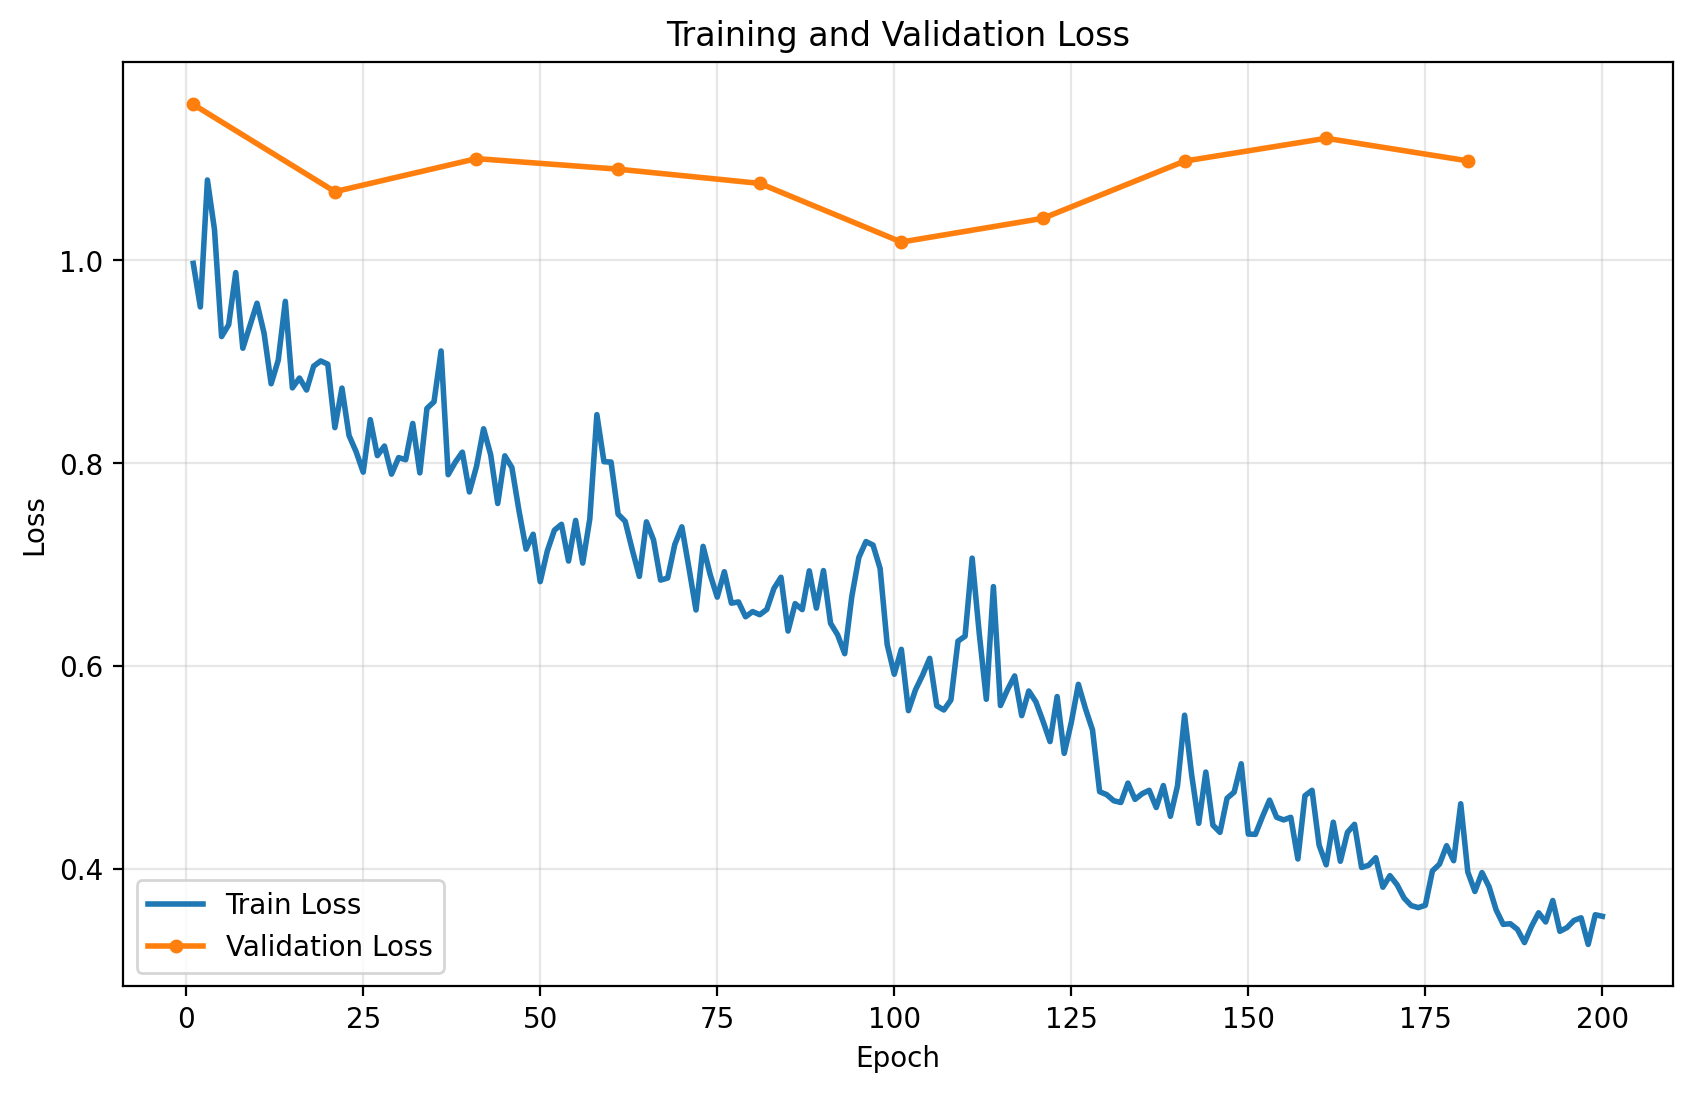
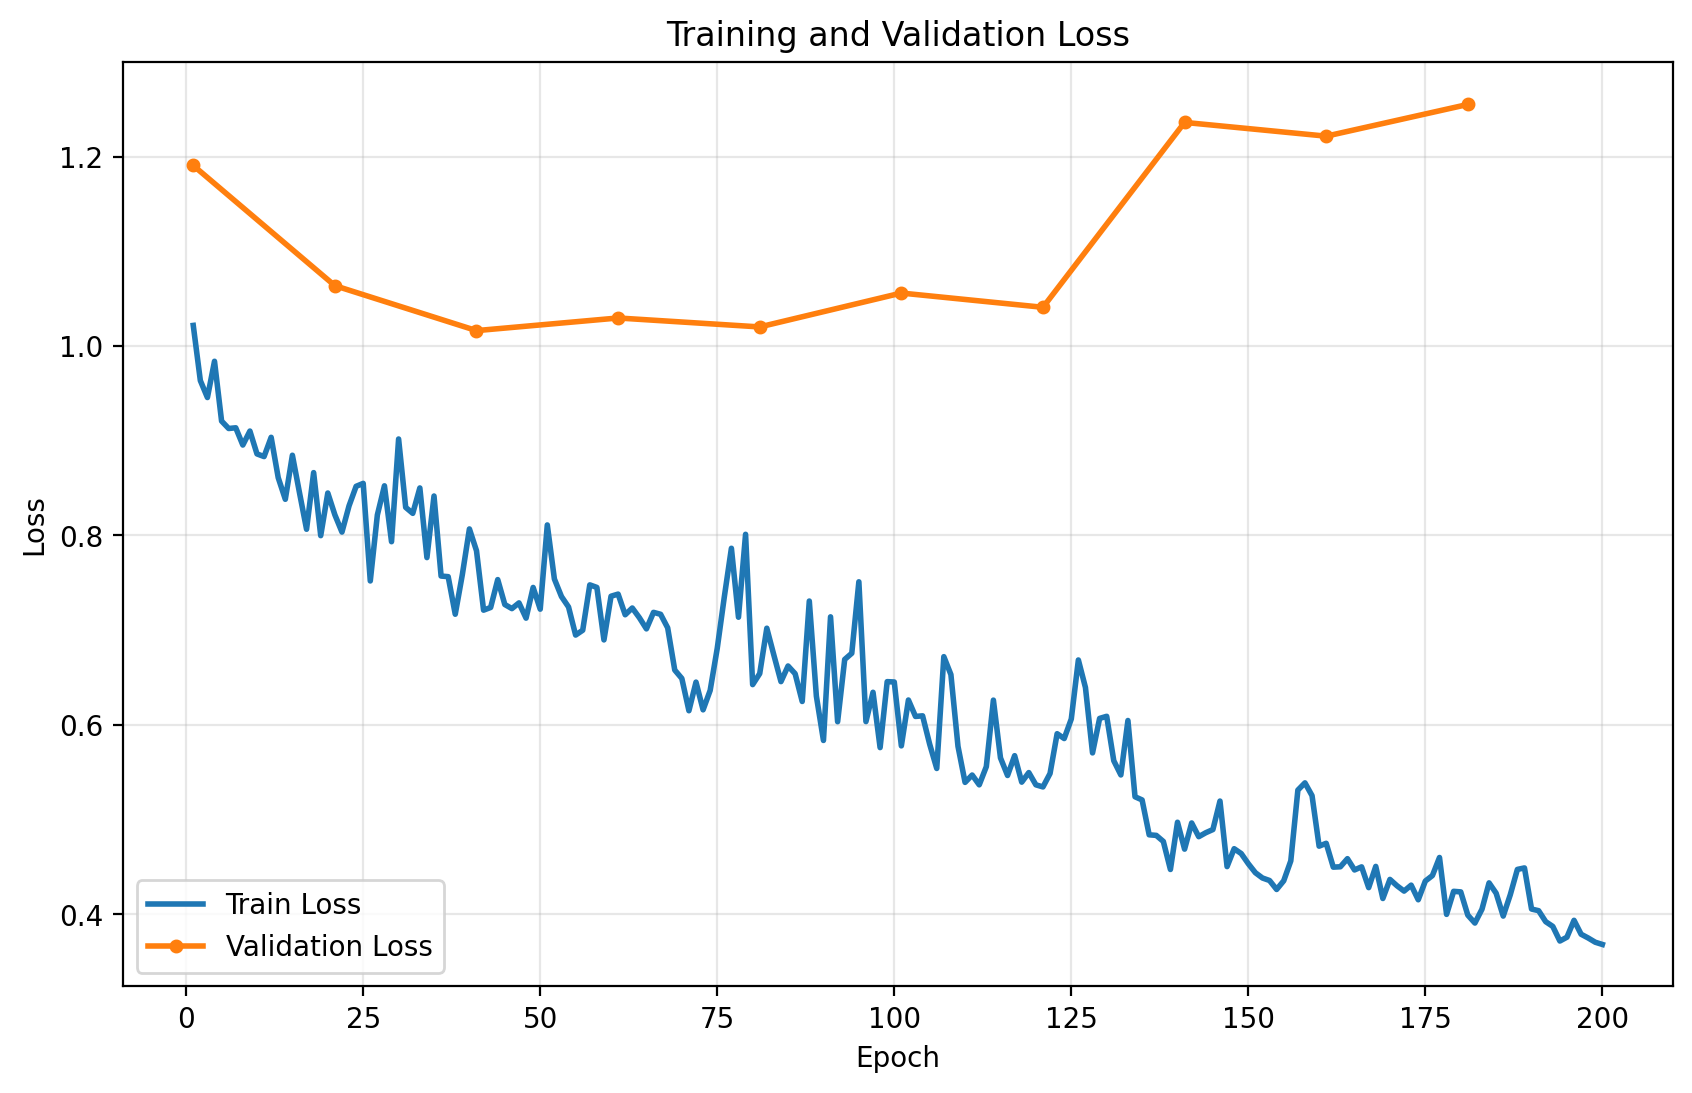
Added saving the best validation loss model

diff --git a/train_gnn.py b/train_gnn.py
@@ -423,6 +423,8 @@ def train_gnn(Wall,
     train_loss_values = []
     val_loss_epochs = []
     val_loss_values = []
+    best_val_loss = float("inf")
+    best_val_epoch = None
 
     #If resuming and history exists in checkpoint, continue appending.
     if resume_checkpoint_path is not None and isinstance(checkpoint, dict):
@@ -430,6 +432,8 @@ def train_gnn(Wall,
         train_loss_values = list(checkpoint.get("train_loss_values", train_loss_values))
         val_loss_epochs = list(checkpoint.get("val_loss_epochs", val_loss_epochs))
         val_loss_values = list(checkpoint.get("val_loss_values", val_loss_values))
+        best_val_loss = float(checkpoint.get("best_val_loss", best_val_loss))
+        best_val_epoch = checkpoint.get("best_val_epoch", best_val_epoch)
 
     print("Starting training...")
     print(f"  Train samples: {len(dataset_train)} | Val samples: {len(dataset_val)}")
@@ -492,6 +496,13 @@ def train_gnn(Wall,
             val_loss_epochs.append(epoch_num)
             val_loss_values.append(float(avg_val_loss))
 
+            if avg_val_loss < best_val_loss:
+                best_val_loss = float(avg_val_loss)
+                best_val_epoch = epoch_num
+                best_model_path = os.path.splitext(save_model_path)[0] + "_best_model.pt"
+                torch.save(model.state_dict(), best_model_path)
+                print(f"Best model saved to {best_model_path} at epoch {best_val_epoch}")
+
             print(f"Epoch {epoch+1}/{epochs} | "
                 f"Train Loss: {avg_train_loss:.9f} | "
                 f"Val Loss: {avg_val_loss:.9f}")
@@ -514,6 +525,8 @@ def train_gnn(Wall,
                     "train_loss_values": train_loss_values,
                     "val_loss_epochs": val_loss_epochs,
                     "val_loss_values": val_loss_values,
+                    "best_val_loss": best_val_loss,
+                    "best_val_epoch": best_val_epoch,
                 },
                 checkpoint_path,
             )
@@ -534,6 +547,8 @@ def train_gnn(Wall,
             "val_loss_epochs": val_loss_epochs,
             "val_loss_values": val_loss_values,
             "validation_check_interval": validation_check_interval,
+            "best_val_loss": best_val_loss,
+            "best_val_epoch": best_val_epoch,
         },
         loss_history_path,
     )

diff --git a/run.py b/run.py
@@ -44,11 +44,10 @@ nodes_per_edge = 2
 K_nearest_neighbors = 3
 
 #ADD COMMENT -------------------------------------------------------------------------------------
-message_passing_layers = 10
-repeat_blocks = 3
+message_passing_layers = 5
+repeat_blocks = 1
 
 batch_size=64
-
 steps = 1000000
 traj_timesteps = 100
 epochs = int(steps / (Num_train_trajectories * traj_timesteps / batch_size))
@@ -64,7 +63,7 @@ validation_check_interval = 20
 #Augmentation shows the effect of random rotations on the trajectories. 
 #Rollout shows the model's predictions when rolled out over a trajectory, with shape matching to the true positions at each step.
 display_loss_curves = True
-display_stats = False
+display_stats = True
 show_meshed_cube = True
 show_augmentation = False
 show_rollout = True
@@ -73,7 +72,7 @@ show_rollout = True
 
 #This turns on and off model training, so you can train the model once, and then turn it off and just 
 #run the visualizations without having to retrain the model every time you run the code.
-Train = False
+Train = True
 
 #Model save/load settings.
 save_model_path = "models/gns_model.pt"
@@ -82,7 +81,7 @@ save_model_path = "models/gns_model.pt"
 rebuild_datasets = True
 
 #Set this to a checkpoint file (for example: models/gns_model_epoch500.pt) to resume training.
-resume_training_checkpoint_path = "models/gns_model_epoch100.pt"
+resume_training_checkpoint_path = None
 
 #Set this to a checkpoint file or model file to load for inference.
 #If None, the script will load the final model saved after training.
@@ -142,9 +141,11 @@ nodes_body = torch.tensor(
 model = GNSModel(node_dim, edge_dim, latent_dim=128, L=message_passing_layers, K=repeat_blocks)
 
 if inference_model_path is None:
-    load_model_path = os.path.splitext(save_model_path)[0] + "_final.pt"
+    load_model_path = os.path.splitext(save_model_path)[0] + "_best_model.pt"
 else:
     load_model_path = inference_model_path
+
+print(f"Loading model from {load_model_path} for evaluation")
 
 loaded_obj = torch.load(load_model_path, map_location=device, weights_only=False)
 if isinstance(loaded_obj, dict) and "model_state_dict" in loaded_obj:

diff --git a/evaluate_metrics.py b/evaluate_metrics.py
@@ -130,9 +130,9 @@ def evaluate_model(model, Wall, test_trajectory_indices, nodes_per_edge,
         all_floor_penetrations.append(metrics['floor_penetration'])
 
     print("\n--- Test Set Metrics ---")
-    print(f"Center Error (relative):   {np.mean(all_center_errors):.4f} ± {np.std(all_center_errors):.4f}")
+    print(f"Center Error ( / width):   {np.mean(all_center_errors):.4f} ± {np.std(all_center_errors):.4f}")
     print(f"Angle Error (degrees):     {np.mean(all_angle_errors):.4f} ± {np.std(all_angle_errors):.4f}")
-    print(f"Floor Penetration:         {np.mean(all_floor_penetrations):.4f} ± {np.std(all_floor_penetrations):.4f}")
+    print(f"Floor Penetration (/ width):         {np.mean(all_floor_penetrations):.4f} ± {np.std(all_floor_penetrations):.4f}")
 
     return {
         'center_error':      np.mean(all_center_errors),
